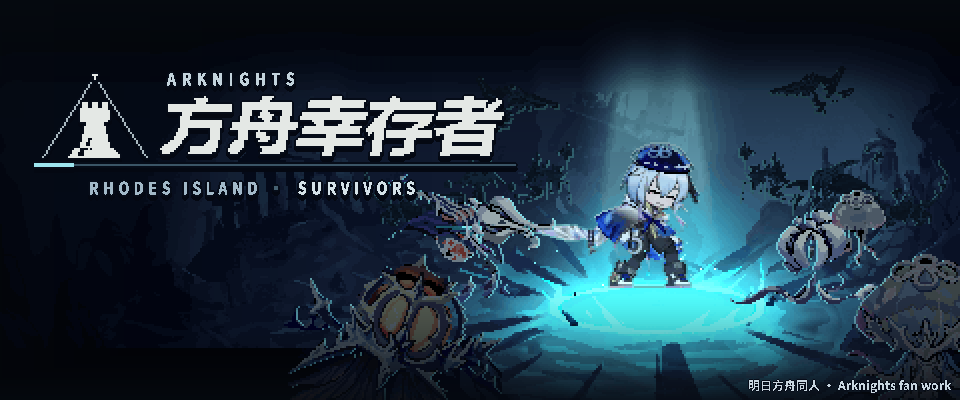
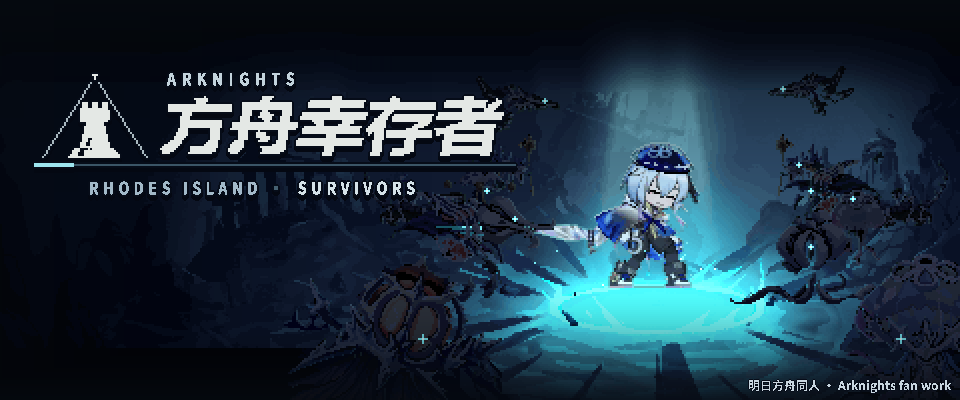
封面 N：海嗣改用游戏「灯火暗淡」表示（docs/222，world.gd DARK_MOD 0.2/0.22/0.3、圈缘往外 30% 渐变）——按到光圈距离压成暗轮廓，眼点按 _emit 层位置画青色十字星（用户 11-07「怪物太亮、层次不好」）

diff --git a/art/promo/itch/cover_g/build_cover_n.py b/art/promo/itch/cover_g/build_cover_n.py
@@ -38,8 +38,8 @@ LAYOUT = [
     # 中景右组
     ("slider", 0.64, 1.02, 0.12, 0.95), ("offspring", 0.52, 1.36, -0.14, 0.85),
     # 后排剪影墙
-    ("runner", 0.46, -1.62, -0.40, 0.55), ("nest", 0.48, -1.18, -0.48, 0.52), ("tracer", 0.44, -0.74, -0.56, 0.5),
-    ("tracer", 0.44, 0.76, -0.56, 0.5), ("skimmer", 0.48, 1.20, -0.48, 0.52), ("runner", 0.46, 1.64, -0.40, 0.55),
+    ("runner", 0.46, -1.62, -0.40, 0.55), ("nest", 0.48, -1.18, -0.48, 0.52), ("tracer", 0.44, -1.00, -0.62, 0.5),
+    ("tracer", 0.44, 1.02, -0.62, 0.5), ("skimmer", 0.48, 1.20, -0.48, 0.52), ("runner", 0.46, 1.64, -0.40, 0.55),
     # 浮在上方的白水母（剪影）
     ("floater", 0.38, -0.95, -1.05, 0.5), ("floater", 0.34, 1.05, -1.15, 0.48),
 ]
@@ -89,7 +89,38 @@ def to_cells(img, h_cells):
     return Image.fromarray(out, "RGBA")
 
 
-def paste(g, spr, fx, fy, light, bright, hm, face_left):
+DARK_MOD = np.array([0.2, 0.22, 0.3], np.float32)   # 与游戏 world.gd 灯火暗淡（docs/222）同值
+EYE_CACHE = {}
+
+
+def eye_points(name):
+    """游戏 _emit 层（e_<名>_emit@2x.png 第 0 帧）里发光像素的位置，按本体外框归一到 0–1"""
+    if name in EYE_CACHE:
+        return EYE_CACHE[name]
+    base = Image.open(M.ENEMY / name / f"e_{name}@2x.png").convert("RGBA")
+    h = base.height
+    fr = base.crop((0, 0, h, h)) if base.width > h else base
+    bb = fr.getbbox()
+    pts = []
+    ep = M.ENEMY / name / f"e_{name}_emit@2x.png"
+    if ep.exists():
+        em = Image.open(ep).convert("RGBA")
+        em = em.crop((0, 0, h, h)) if em.width > h else em
+        a = np.asarray(em)
+        ys, xs = np.nonzero(a[..., 3] > 100)
+        if len(xs):
+            # 每个发光小团取中心（一只怪通常 1–2 个眼点）
+            lab, n = label(a[..., 3] > 100)
+            for i in range(1, n + 1):
+                yy, xx = np.nonzero(lab == i)
+                pts.append(((xx.mean() - bb[0]) / (bb[2] - bb[0]), (yy.mean() - bb[1]) / (bb[3] - bb[1])))
+    EYE_CACHE[name] = pts
+    return pts
+
+
+def paste(g, spr, fx, fy, light, bright, hm, face_left, name="", ring_r=0.62):
+    """11-07 用户「怪物太亮，用游戏里灯火暗的表示」：本体按到光圈的距离压向 DARK_MOD（圈缘往外 30% 半径内渐变，同游戏），
+    近处还留一点原色 + 朝光边光，远处只剩暗轮廓；眼点按游戏 _emit 层的位置画青色十字星，照常亮"""
     if face_left:
         spr = spr.transpose(Image.FLIP_LEFT_RIGHT)
     a = np.asarray(spr).astype(np.float32)
@@ -97,16 +128,11 @@ def paste(g, spr, fx, fy, light, bright, hm, face_left):
     m = a[..., 3] > 127
     gh, gw = g.shape[:2]
     x0, y0 = int(fx - sw / 2), int(fy - sh)
-    d = math.hypot(fx - light[0], (fy - sh / 2) - light[1]) / hm
-    k = float(np.clip(1.1 - 0.28 * d, 0.35, 1.0)) * bright
-    rgb = a[..., :3] * np.array([0.78, 0.90, 1.0]) * k
-    sil = bright < 0.66          # 后排 / 背景巨物：平涂深色剪影（只留一点明暗 + 青色眼光），做成怪墙
-    if sil:
-        lum = (a[..., :3] * [0.299, 0.587, 0.114]).sum(-1, keepdims=True) / 255
-        rgb = np.array([8, 16, 26], np.float32) + lum * np.array([16, 30, 42]) * (bright / 0.66)
-        r_, g_, b_ = a[..., 0], a[..., 1], a[..., 2]
-        eye = m & (g_ > 150) & (b_ > 170) & (r_ < 150)
-        rgb = np.where(eye[..., None], M.CYAN * 0.9, rgb)
+    R = ring_r * hm
+    dist = math.hypot(fx - light[0], (fy - sh * 0.4) - light[1])
+    f = float(np.clip((dist - R * 0.9) / (R * 0.3), 0.0, 1.0))
+    mod = (1 - f) * np.ones(3, np.float32) + f * DARK_MOD
+    rgb = a[..., :3] * mod * np.array([0.85, 0.93, 1.0]) * bright
     vx, vy = light[0] - fx, light[1] - (fy - sh / 2)
     nv = math.hypot(vx, vy) or 1
     sx, sy = int(round(vx / nv)), int(round(vy / nv))
@@ -114,8 +140,18 @@ def paste(g, spr, fx, fy, light, bright, hm, face_left):
     p = np.pad(mf, 1)
     nb = p[1 + sy:1 + sy + sh, 1 + sx:1 + sx + sw]
     rim = m & ~nb
-    rk = float(np.clip(0.95 - 0.22 * d, 0.25, 0.8)) * (0.45 if sil else 1.0)
+    rk = 0.6 * (1 - f) + 0.12          # 暗处只留很淡的一丝轮廓光
     rgb[rim] = rgb[rim] * (1 - rk) + M.CYAN * rk
+    # 眼点：游戏 _emit 位置的青色十字星
+    star = 2 if sh > 90 else 1
+    for u, v in eye_points(name):
+        ex = int(round((1 - u if face_left else u) * (sw - 1)))
+        ey = int(round(v * (sh - 1)))
+        for dx, dy in [(0, 0)] + [(k * s1, k * s2) for k in range(1, star + 1) for s1, s2 in ((1, 0), (-1, 0), (0, 1), (0, -1))]:
+            xx, yy = ex + dx, ey + dy
+            if 0 <= xx < sw and 0 <= yy < sh:
+                rgb[yy, xx] = (225, 255, 255) if (dx, dy) == (0, 0) else M.CYAN
+                m[yy, xx] = True
     ys0, xs0 = max(0, y0), max(0, x0)
     ys1, xs1 = min(gh, y0 + sh), min(gw, x0 + sw)
     if ys1 <= ys0 or xs1 <= xs0:
@@ -163,12 +199,12 @@ def build(kind):
     for fy, name, hr, fx, br in items:
         if fy > cy:
             continue
-        paste(g, to_cells(load_src(name), max(6, int(hr * hm))), fx, fy, light, br, hm, fx > cx)
+        paste(g, to_cells(load_src(name), max(6, int(hr * hm))), fx, fy, light, 1.0, hm, fx > cx, name)
     g = Hh.compose_grid(g, miz, rmask, (cx, cy), 0)
     for fy, name, hr, fx, br in items:
         if fy <= cy:
             continue
-        paste(g, to_cells(load_src(name), max(6, int(hr * hm))), fx, fy, light, br, hm, fx > cx)
+        paste(g, to_cells(load_src(name), max(6, int(hr * hm))), fx, fy, light, 1.0, hm, fx > cx, name)
     t = np.clip(1 - np.arange(gh) / (gh * 0.48), 0, 1)[:, None, None] ** 1.8 * 0.92
     g = (g * (1 - t) + np.array([6, 10, 16]) * t).astype(np.uint8)
     if kind == "itch_banner":
